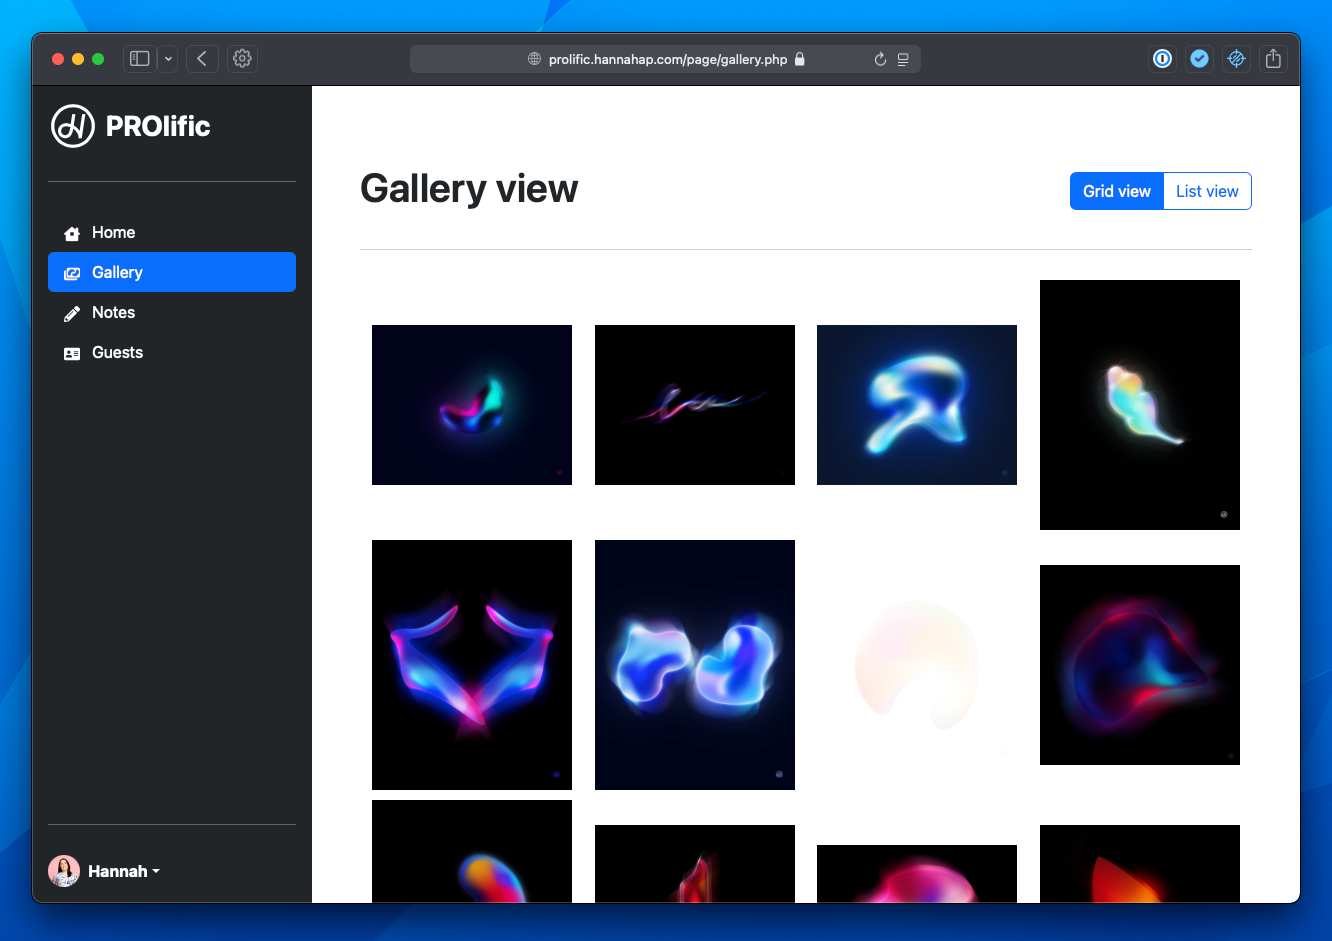
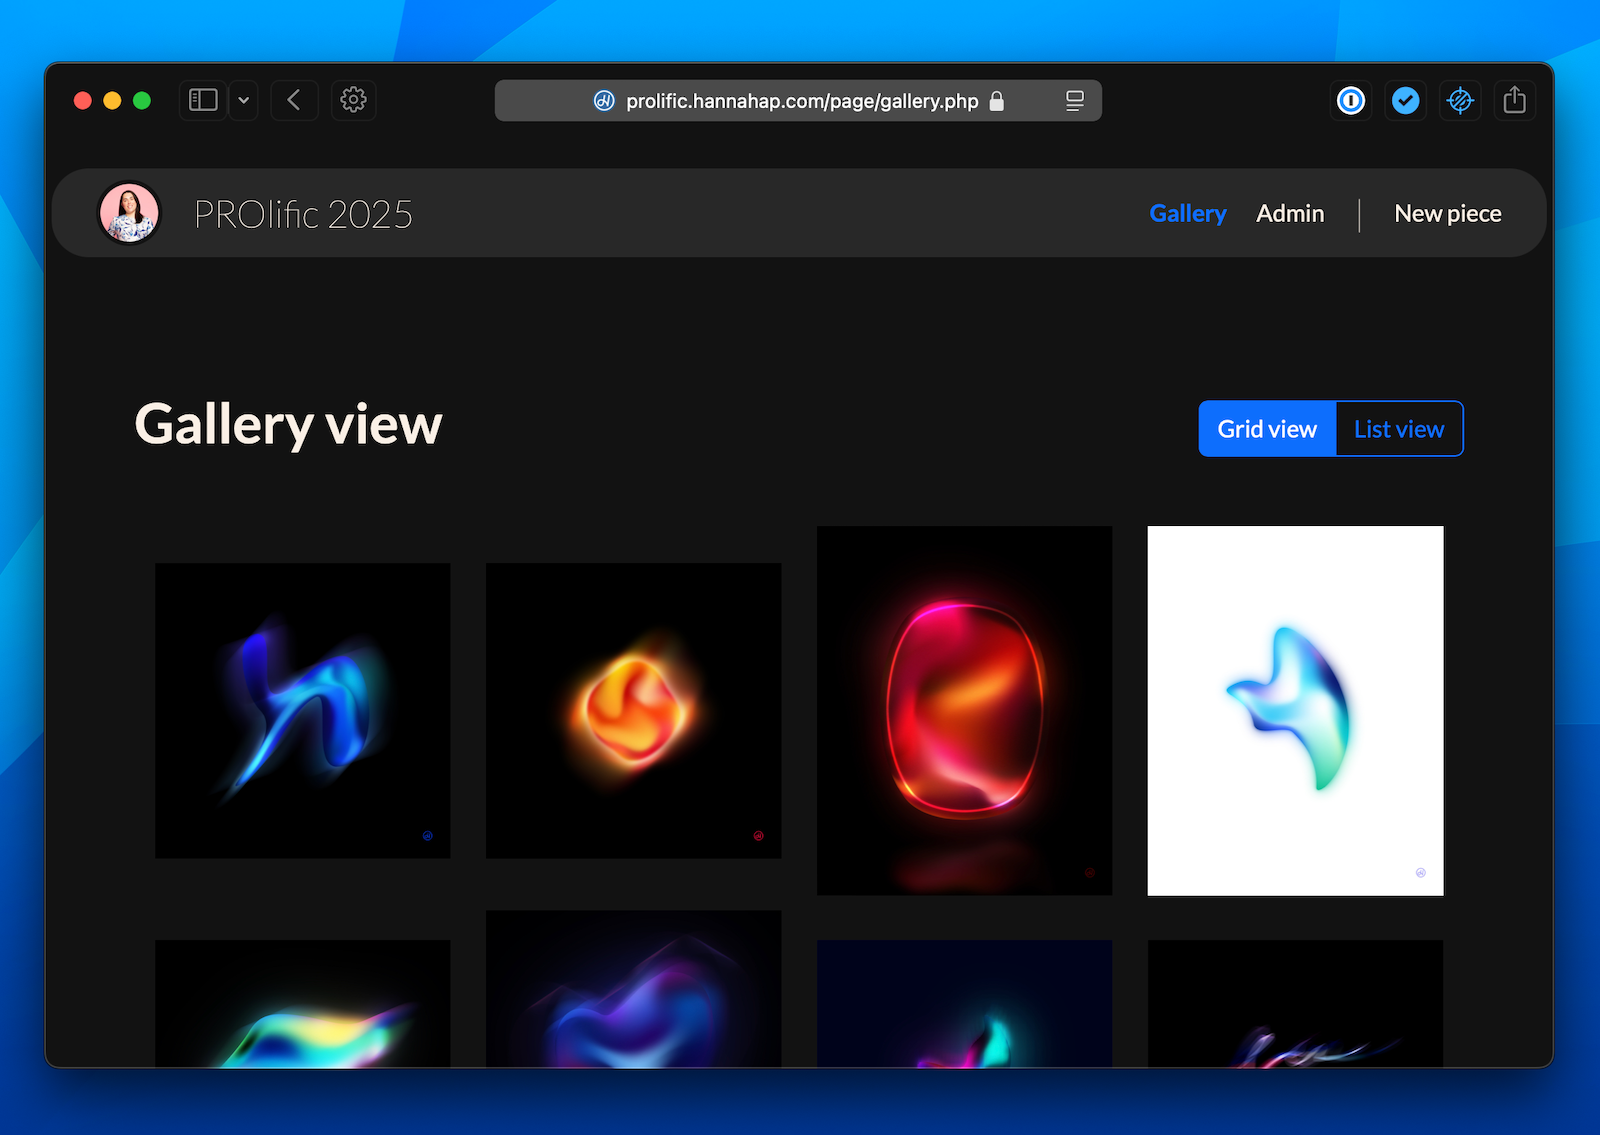
Updates PROlific screenshots

diff --git a/public/prolific.html b/public/prolific.html
@@ -1,1 +1,1 @@
-<!DOCTYPE html><html lang="en"><head><meta charset="UTF-8"><meta name="viewport" content="width=device-width,initial-scale=1,shrink-to-fit=no"><link rel="manifest" href="/site.webmanifest"><meta name="msapplication-TileColor" content="#3667A1"><meta name="theme-color" content="#3667A1"><link rel="apple-touch-icon" sizes="180x180" href="/apple-touch-icon.png"><link rel="icon" type="image/png" sizes="32x32" href="/favicon-32x32.png"><link rel="icon" type="image/png" sizes="192x192" href="/android-chrome-192x192.png"><link rel="icon" type="image/png" sizes="16x16" href="/favicon-16x16.png"><meta name="author" content="Alexandria 'Hannah' I. Patellis"><meta name="description" content="Hannah A. Patellis is a Technologist and Artist based in Minneapolis, Minnesota"><title>PROlific Art Management Software by Hannah A. Patellis | Technologist + Artist</title><link type="text/css" rel="stylesheet" href="scss/style.css"></head><body><div id="mobi-nav"><a href="index.html" title="Home"><div class="mobi-link"><img id="flag-logo" src="images/logo.svg" alt="Hannah A. Patellis logo"></div></a><div class="mobi-link" id="mobi-menu" role="button"><img src="images/bars-light.svg" alt="Expand navigation"></div></div><nav><ul id="nav-left" class="nav-container"><a class="nav-link" href="index.html" title="Home"><li class="nav-item"><img id="flag-logo" src="images/logo.svg" alt="Hannah A. Patellis logo"></li></a><a class="nav-link" href="about.html" title="About Hannah A. Patellis"><li class="nav-item">About me</li></a></ul><ul id="nav-right" class="nav-container"><a class="nav-link" href="zines.html" title="Zines by Hannah A. Patellis"><li class="nav-item">Zines</li></a><a class="nav-link" href="art.html" title="Art by Hannah A. Patellis"><li class="nav-item">Art</li></a><a class="nav-link" href="https://emotionalby.design" title="Shop Hannah A. Patellis at Emotional by Design"><li class="nav-item nav-external">Shop</li></a><a class="nav-link" href="http://retro.hannahap.com" title="Tech projects homepage"><li class="nav-item nav-external">Tech projects</li></a></ul></nav><main id="stage-showcase"><article><p class="mb-1">PROlific is an art management application written primarily in PHP and using MySQL as a database.</p><p class="mb-1">This piece of web-based software allows artists to keep an ongoing database of their work complete with detailed notes and images and allows guests to login and view specific pieces. I started writing PROlific for a few reasons, one being I wanted to be able to see all my work in one place and another being I wanted to have a complete database that I could use for whatever kinds of projects I wanted.</p><p>The development of PROlific is ongoing and the current state of the software is alpha at best. The code (along with more screenshots) is publicly available on Github and many more features are still to come.</p><div id="actions"><div class="action-button-container"><a href="https://github.com/hannahpatellis/prolific" title="See the PROlific code on Github"><div><div>See the code on Github</div><div><img src="images/circle-arrow-right-dblue.svg" alt="See the PROlific code on Github"></div></div></a></div></div></article><aside><a href="https://github.com/hannahpatellis/prolific" title="See the PROlific code on Github"><img id="screenshot" src="images/prolific-gallery.png" alt="Screenshot of PROlific running in Safari showing a gallery view of art works"> <img id="screenshot" src="images/prolific-add.png" alt="Screenshot of PROlific running in Safari showing the screen to add a new art work to the database"></a></aside></main><footer><div class="footer-chunk"><a href="https://www.linkedin.com/in/hannahpatellis/" title="Hannah Patellis on LinkedIn" class="social-icon"><img src="images/social/linkedin.svg" alt="LinkedIn"> </a><a href="https://github.com/hannahpatellis" title="Hannah Patellis on Github" class="social-icon"><img src="images/social/github.svg" alt="Github"> </a><a href="https://www.instagram.com/hannahpatellis/" title="Hannah Patellis on Instagram" class="social-icon"><img src="images/social/instagram.svg" alt="Instagram"> </a><a rel="me" href="https://oldbytes.space/@hannahpatellis" title="Hannah Patellis on Mastodon" class="social-icon"><img src="images/social/mastodon.svg" alt="Mastodon"></a></div><div class="footer-chunk"><a href="https://www.flickr.com/people/198034559@N06/" title="Hannah Patellis on Flickr" class="social-icon"><img src="images/social/flickr.svg" alt="Flickr"> </a><a href="https://www.youtube.com/channel/UCzW_vzrmlIgcKh9L4Q0lpUQ" title="Hannah Patellis on YouTube" class="social-icon"><img src="images/social/youtube.svg" alt="YouTube"> </a><a href="https://bsky.app/profile/hannahap.com" title="Hannah Patellis on Bluesky" class="social-icon"><img src="images/social/bluesky.svg" alt="Threads"> </a><a href="https://paypal.me/hannahpatellis" title="Hannah Patellis on PayPal" class="social-icon"><img src="images/social/paypal.svg" alt="PayPal"></a></div></footer><script src="js/primary.js" type="text/javascript" charset="utf-8"></script><script async src="https://www.googletagmanager.com/gtag/js?id=G-E7MQGH45X3"></script><script>function gtag(){dataLayer.push(arguments)}window.dataLayer=window.dataLayer||[],gtag("js",new Date),gtag("config","G-E7MQGH45X3")</script></body></html>
+<!DOCTYPE html><html lang="en"><head><meta charset="UTF-8"><meta name="viewport" content="width=device-width,initial-scale=1,shrink-to-fit=no"><link rel="manifest" href="/site.webmanifest"><meta name="msapplication-TileColor" content="#3667A1"><meta name="theme-color" content="#3667A1"><link rel="apple-touch-icon" sizes="180x180" href="/apple-touch-icon.png"><link rel="icon" type="image/png" sizes="32x32" href="/favicon-32x32.png"><link rel="icon" type="image/png" sizes="192x192" href="/android-chrome-192x192.png"><link rel="icon" type="image/png" sizes="16x16" href="/favicon-16x16.png"><meta name="author" content="Alexandria 'Hannah' I. Patellis"><meta name="description" content="Hannah A. Patellis is a Technologist and Artist based in Minneapolis, Minnesota"><title>PROlific Art Management Software by Hannah A. Patellis | Technologist + Artist</title><link type="text/css" rel="stylesheet" href="scss/style.css"></head><body><div id="mobi-nav"><a href="index.html" title="Home"><div class="mobi-link"><img id="flag-logo" src="images/logo.svg" alt="Hannah A. Patellis logo"></div></a><div class="mobi-link" id="mobi-menu" role="button"><img src="images/bars-light.svg" alt="Expand navigation"></div></div><nav><ul id="nav-left" class="nav-container"><a class="nav-link" href="index.html" title="Home"><li class="nav-item"><img id="flag-logo" src="images/logo.svg" alt="Hannah A. Patellis logo"></li></a><a class="nav-link" href="about.html" title="About Hannah A. Patellis"><li class="nav-item">About me</li></a></ul><ul id="nav-right" class="nav-container"><a class="nav-link" href="zines.html" title="Zines by Hannah A. Patellis"><li class="nav-item">Zines</li></a><a class="nav-link" href="art.html" title="Art by Hannah A. Patellis"><li class="nav-item">Art</li></a><a class="nav-link" href="https://emotionalby.design" title="Shop Hannah A. Patellis at Emotional by Design"><li class="nav-item nav-external">Shop</li></a><a class="nav-link" href="http://retro.hannahap.com" title="Tech projects homepage"><li class="nav-item nav-external">Tech projects</li></a></ul></nav><main id="stage-showcase"><article><p class="mb-1">PROlific is an art management application written primarily in PHP and using MySQL as a database.</p><p class="mb-1">This piece of web-based software allows artists to keep an ongoing database of their work complete with detailed notes and images and allows guests to login and view specific pieces. I started writing PROlific for a few reasons, one being I wanted to be able to see all my work in one place and another being I wanted to have a complete database that I could use for whatever kinds of projects I wanted.</p><p>The development of PROlific is ongoing and the current state of the software is alpha at best. The code (along with more screenshots) is publicly available on Github and many more features are still to come.</p><div id="actions"><div class="action-button-container"><a href="https://github.com/hannahpatellis/prolific" title="See the PROlific code on Github"><div><div>See the code on Github</div><div><img src="images/circle-arrow-right-dblue.svg" alt="See the PROlific code on Github"></div></div></a></div></div></article><aside><a href="https://github.com/hannahpatellis/prolific" title="See the PROlific code on Github"><img id="screenshot" src="images/prolific-gallery.png" alt="Screenshot of PROlific running in Safari showing a gallery view of art works"> <img id="screenshot" src="images/prolific-entry.png" alt="Screenshot of PROlific running in Safari showing an entry for a single work of art"></a></aside></main><footer><div class="footer-chunk"><a href="https://www.linkedin.com/in/hannahpatellis/" title="Hannah Patellis on LinkedIn" class="social-icon"><img src="images/social/linkedin.svg" alt="LinkedIn"> </a><a href="https://github.com/hannahpatellis" title="Hannah Patellis on Github" class="social-icon"><img src="images/social/github.svg" alt="Github"> </a><a href="https://www.instagram.com/hannahpatellis/" title="Hannah Patellis on Instagram" class="social-icon"><img src="images/social/instagram.svg" alt="Instagram"> </a><a rel="me" href="https://oldbytes.space/@hannahpatellis" title="Hannah Patellis on Mastodon" class="social-icon"><img src="images/social/mastodon.svg" alt="Mastodon"></a></div><div class="footer-chunk"><a href="https://www.flickr.com/people/198034559@N06/" title="Hannah Patellis on Flickr" class="social-icon"><img src="images/social/flickr.svg" alt="Flickr"> </a><a href="https://www.youtube.com/channel/UCzW_vzrmlIgcKh9L4Q0lpUQ" title="Hannah Patellis on YouTube" class="social-icon"><img src="images/social/youtube.svg" alt="YouTube"> </a><a href="https://bsky.app/profile/hannahap.com" title="Hannah Patellis on Bluesky" class="social-icon"><img src="images/social/bluesky.svg" alt="Threads"> </a><a href="https://paypal.me/hannahpatellis" title="Hannah Patellis on PayPal" class="social-icon"><img src="images/social/paypal.svg" alt="PayPal"></a></div></footer><script src="js/primary.js" type="text/javascript" charset="utf-8"></script><script async src="https://www.googletagmanager.com/gtag/js?id=G-E7MQGH45X3"></script><script>function gtag(){dataLayer.push(arguments)}window.dataLayer=window.dataLayer||[],gtag("js",new Date),gtag("config","G-E7MQGH45X3")</script></body></html>

diff --git a/src/assets/scss/pages/art/_art-entry.scss b/src/assets/scss/pages/art/_art-entry.scss
@@ -19,7 +19,6 @@ main#stage-art-entry {
   }
 }
 
-
 @media only screen and (max-width: 800px) {
 	main#stage-art-entry {
 		margin-top: 20%;
